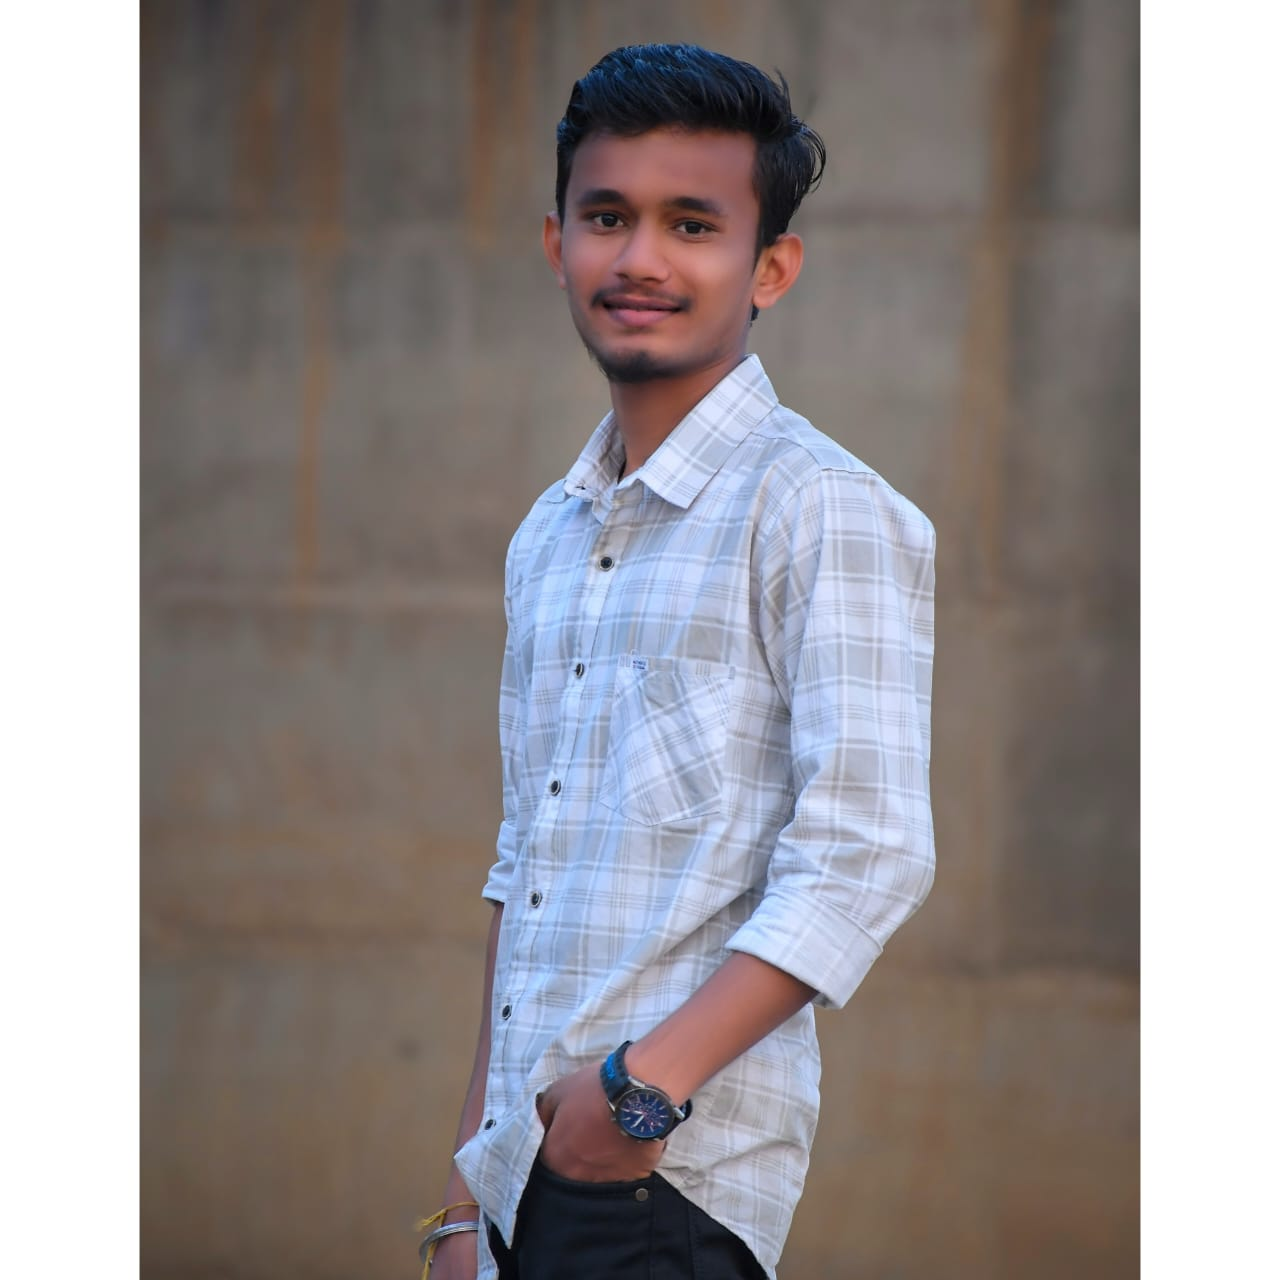
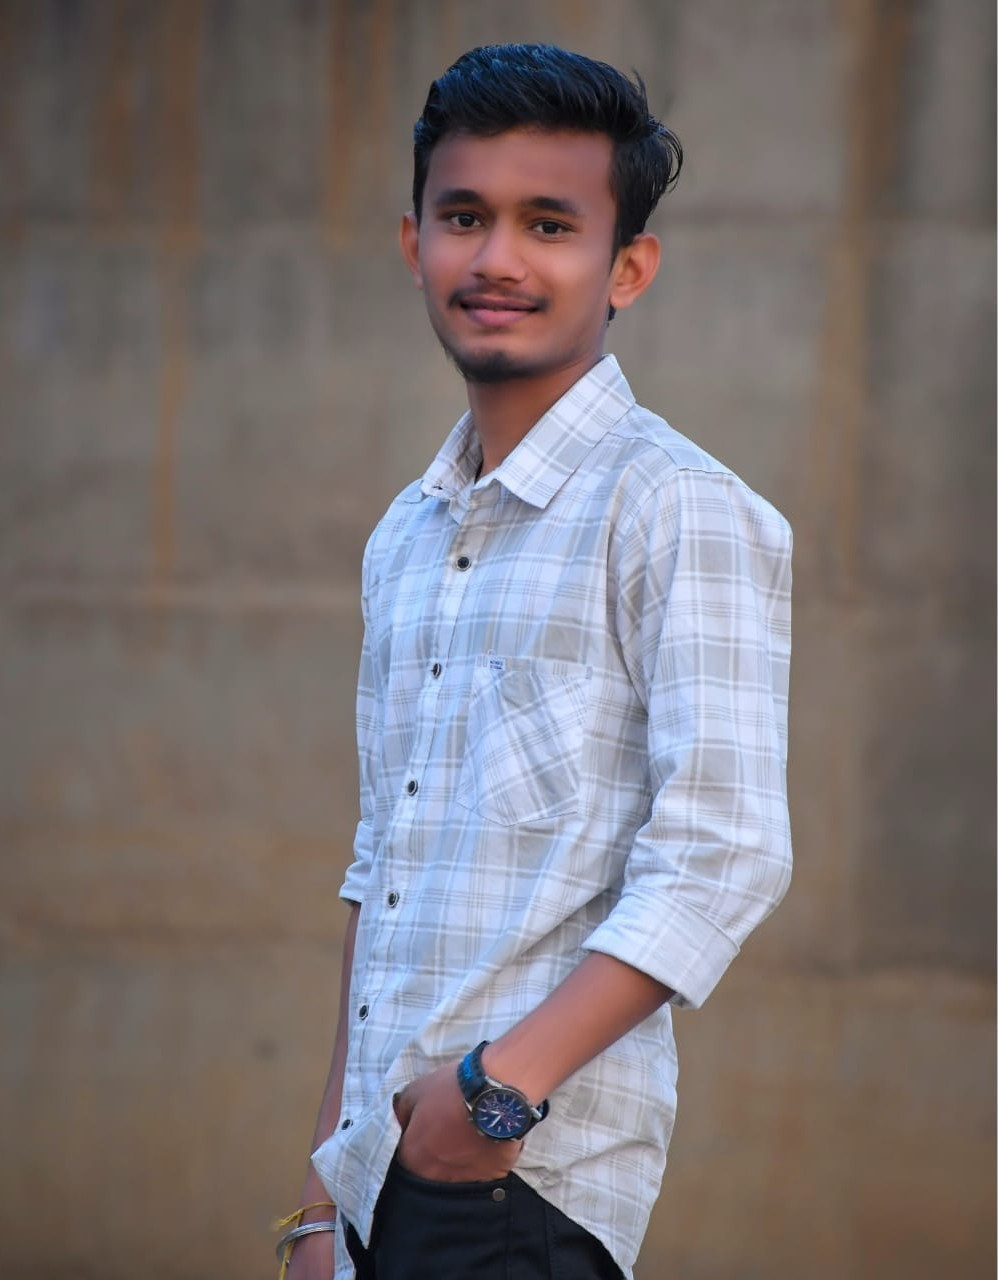
feat: add MSBTE Diploma Job Portal project to Projects page

diff --git a/src/pages/Projects.jsx b/src/pages/Projects.jsx
@@ -3,103 +3,144 @@ import { motion } from "framer-motion";
 import ProjectCard from "../components/ProjectCard";
 
 // Import project images
+import msbteJobPortalImg from "../assets/projects/msbteJobPortal.png";
+import touchlessComputerImg from "../assets/projects/touchlessComputer.png";
+import credexAuditImg from "../assets/projects/credexAudit.png";
 import womenSafetyImg from "../assets/projects/womenSafety.png";
 import studentPlatformImg from "../assets/projects/studentPlatform.png";
-import hostelManagementImg from "../assets/projects/hostelManagement.png";
 
 const projectsData = [
-{
-image: womenSafetyImg,
-category: "Safety & Emergency",
-title: "Women Safety System",
-description:
-"A smart women safety application designed to enhance personal security. The system provides emergency alerts, real-time location tracking, and quick contact notification to ensure user safety. The application allows users to send SOS alerts instantly and share live location with trusted contacts during emergency situations.",
-tags: [
-"Java",
-"Android",
-"GPS",
-"Firebase",
-"Location Tracking",
-],
-href: "https://github.com/buddherohit",
-demoUrl: "#",
-},
+  {
+    image: msbteJobPortalImg,
+    category: "EdTech & Career",
+    title: "MSBTE Diploma Job Portal",
+    description:
+      "A specialized career platform connecting Maharashtra diploma students from Mechanical, Civil, Electrical, and Computer/IT branches with verified industrial job opportunities. Features direct academic record verification and simplified applications.",
+    tags: [
+      "React",
+      "Tailwind CSS",
+      "Vite",
+      "Vercel",
+      "Material Symbols",
+      "Job Portal",
+    ],
+    href: "https://github.com/buddherohit/MSBTE-Diploma-Job-Portal",
+    demoUrl: "https://msbte-diploma-job-portal.vercel.app/",
+  },
 
-{
-image: studentPlatformImg,
-category: "EdTech Platform",
-title: "Student Learning Platform",
-description:
-"A digital learning platform designed to provide educational resources, course materials, and structured learning modules for students. The platform allows users to access study content, track learning progress, and improve academic performance through interactive learning.",
-tags: [
-"Java",
-"React",
-"Node.js",
-"MongoDB",
-"Web Development",
-],
-href: "https://github.com/buddherohit",
-demoUrl: "#",
-},
+  {
+    image: touchlessComputerImg,
+    category: "AI & Computer Vision",
+    title: "AI-Powered Touchless Computer Control System",
+    description:
+      "A computer vision based system that enables users to control their computer using hand gestures. Features include cursor movement, clicking, scrolling, volume control, and media navigation through real-time gesture recognition.",
+    tags: [
+      "Python",
+      "OpenCV",
+      "MediaPipe",
+      "Computer Vision",
+      "AI",
+    ],
+    href: "https://github.com/buddherohit/AI-Powered-Touchless-Computer-Control-System",
+    demoUrl: "https://ai-powered-touchless-computer-contr.vercel.app/",
+  },
 
-{
-image: hostelManagementImg,
-category: "Management System",
-title: "Smart Hostel Management System",
-description:
-"A smart hostel management system designed to manage hostel operations efficiently. Features include student registration, room allocation, attendance tracking, complaint management, and admin dashboard for better management and monitoring.",
-tags: [
-"Java",
-"MySQL",
-"Spring Boot",
-"React",
-"Full Stack",
-],
-href: "https://github.com/buddherohit",
-demoUrl: "#",
-},
+  {
+    image: credexAuditImg,
+    category: "AI & FinTech",
+    title: "Credex AI Audit Platform",
+    description:
+      "An AI-powered financial audit platform that analyzes financial records, detects anomalies, identifies risks, and generates intelligent audit insights through automated analysis and interactive dashboards.",
+    tags: [
+      "React",
+      "JavaScript",
+      "AI",
+      "FinTech",
+      "Vercel",
+    ],
+    href: "https://github.com/buddherohit",
+    demoUrl: "https://credex-ai-audit-v2.vercel.app/",
+  },
+
+  {
+    image: womenSafetyImg,
+    category: "Safety & Emergency",
+    title: "Women Safety System",
+    description:
+      "A smart women safety application designed to enhance personal security with SOS alerts, live location sharing, emergency notifications, and real-time tracking for trusted contacts.",
+    tags: [
+      "Java",
+      "Android",
+      "GPS",
+      "Firebase",
+      "Location Tracking",
+    ],
+    href: "https://github.com/buddherohit",
+    demoUrl: "#",
+  },
+
+  {
+    image: studentPlatformImg,
+    category: "EdTech Platform",
+    title: "Student Learning Platform",
+    description:
+      "A digital learning platform providing study materials, tutorials, learning modules, progress tracking, and interactive educational resources for students.",
+    tags: [
+      "React",
+      "Node.js",
+      "MongoDB",
+      "JavaScript",
+      "EdTech",
+    ],
+    href: "https://github.com/buddherohit",
+    demoUrl: "#",
+  },
 ];
 
 export default function Projects() {
-return (
-<motion.section
-id="projects"
-className="relative isolate bg-gradient-to-b from-white via-gray-50 to-white py-16 sm:py-20 overflow-hidden"
-initial="hidden"
-whileInView="show"
-viewport={{ once: true, amount: 0.1, margin: "0px 0px -100px 0px" }}
-variants={{
-hidden: {},
-show: { transition: { staggerChildren: 0.15 } },
-}}
->
+  return (
+    <motion.section
+      id="projects"
+      className="relative isolate bg-gradient-to-b from-white via-gray-50 to-white py-16 sm:py-20 overflow-hidden"
+      initial="hidden"
+      whileInView="show"
+      viewport={{ once: true, amount: 0.1 }}
+      variants={{
+        hidden: {},
+        show: {
+          transition: {
+            staggerChildren: 0.15,
+          },
+        },
+      }}
+    >
+      <div className="max-w-7xl mx-auto px-4 sm:px-6 lg:px-8">
+        <motion.div className="mb-12 sm:mb-16">
+          <span className="inline-block px-3 py-1 mb-4 text-xs font-bold tracking-widest text-red-600 uppercase bg-red-50 rounded-full border border-red-100">
+            Portfolio • Work • Projects
+          </span>
 
-<div className="max-w-7xl mx-auto px-4 sm:px-6 lg:px-8">
+          <h2 className="text-3xl sm:text-4xl md:text-5xl font-bold text-gray-900 tracking-tight mb-4">
+            My Projects
+          </h2>
 
-<motion.div className="mb-12 sm:mb-16">
-<span className="inline-block px-3 py-1 mb-4 text-xs font-bold tracking-widest text-red-600 uppercase bg-red-50 rounded-full border border-red-100">
-Portfolio • Work • Projects
-</span>
+          <p className="text-lg text-gray-600 max-w-2xl">
+            Here are some of my projects showcasing my skills in AI,
+            Computer Vision, Full Stack Development, Problem Solving,
+            and Real-World Software Applications.
+          </p>
+        </motion.div>
 
-<h2 className="text-3xl sm:text-4xl md:text-5xl font-bold text-gray-900 tracking-tight mb-4">
-My Projects
-</h2>
-
-<p className="text-lg text-gray-600 max-w-2xl">
-Here are some of my projects showcasing my skills in software development,
-problem solving and real world applications.
-</p>
-
-</motion.div>
-
-<div className="space-y-12">
-{projectsData.map((project, index) => (
-<ProjectCard key={index} index={index} {...project} />
-))}
-</div>
-
-</div>
-
-</motion.section>
-);
+        <div className="space-y-12">
+          {projectsData.map((project, index) => (
+            <ProjectCard
+              key={index}
+              index={index}
+              {...project}
+            />
+          ))}
+        </div>
+      </div>
+    </motion.section>
+  );
 }
